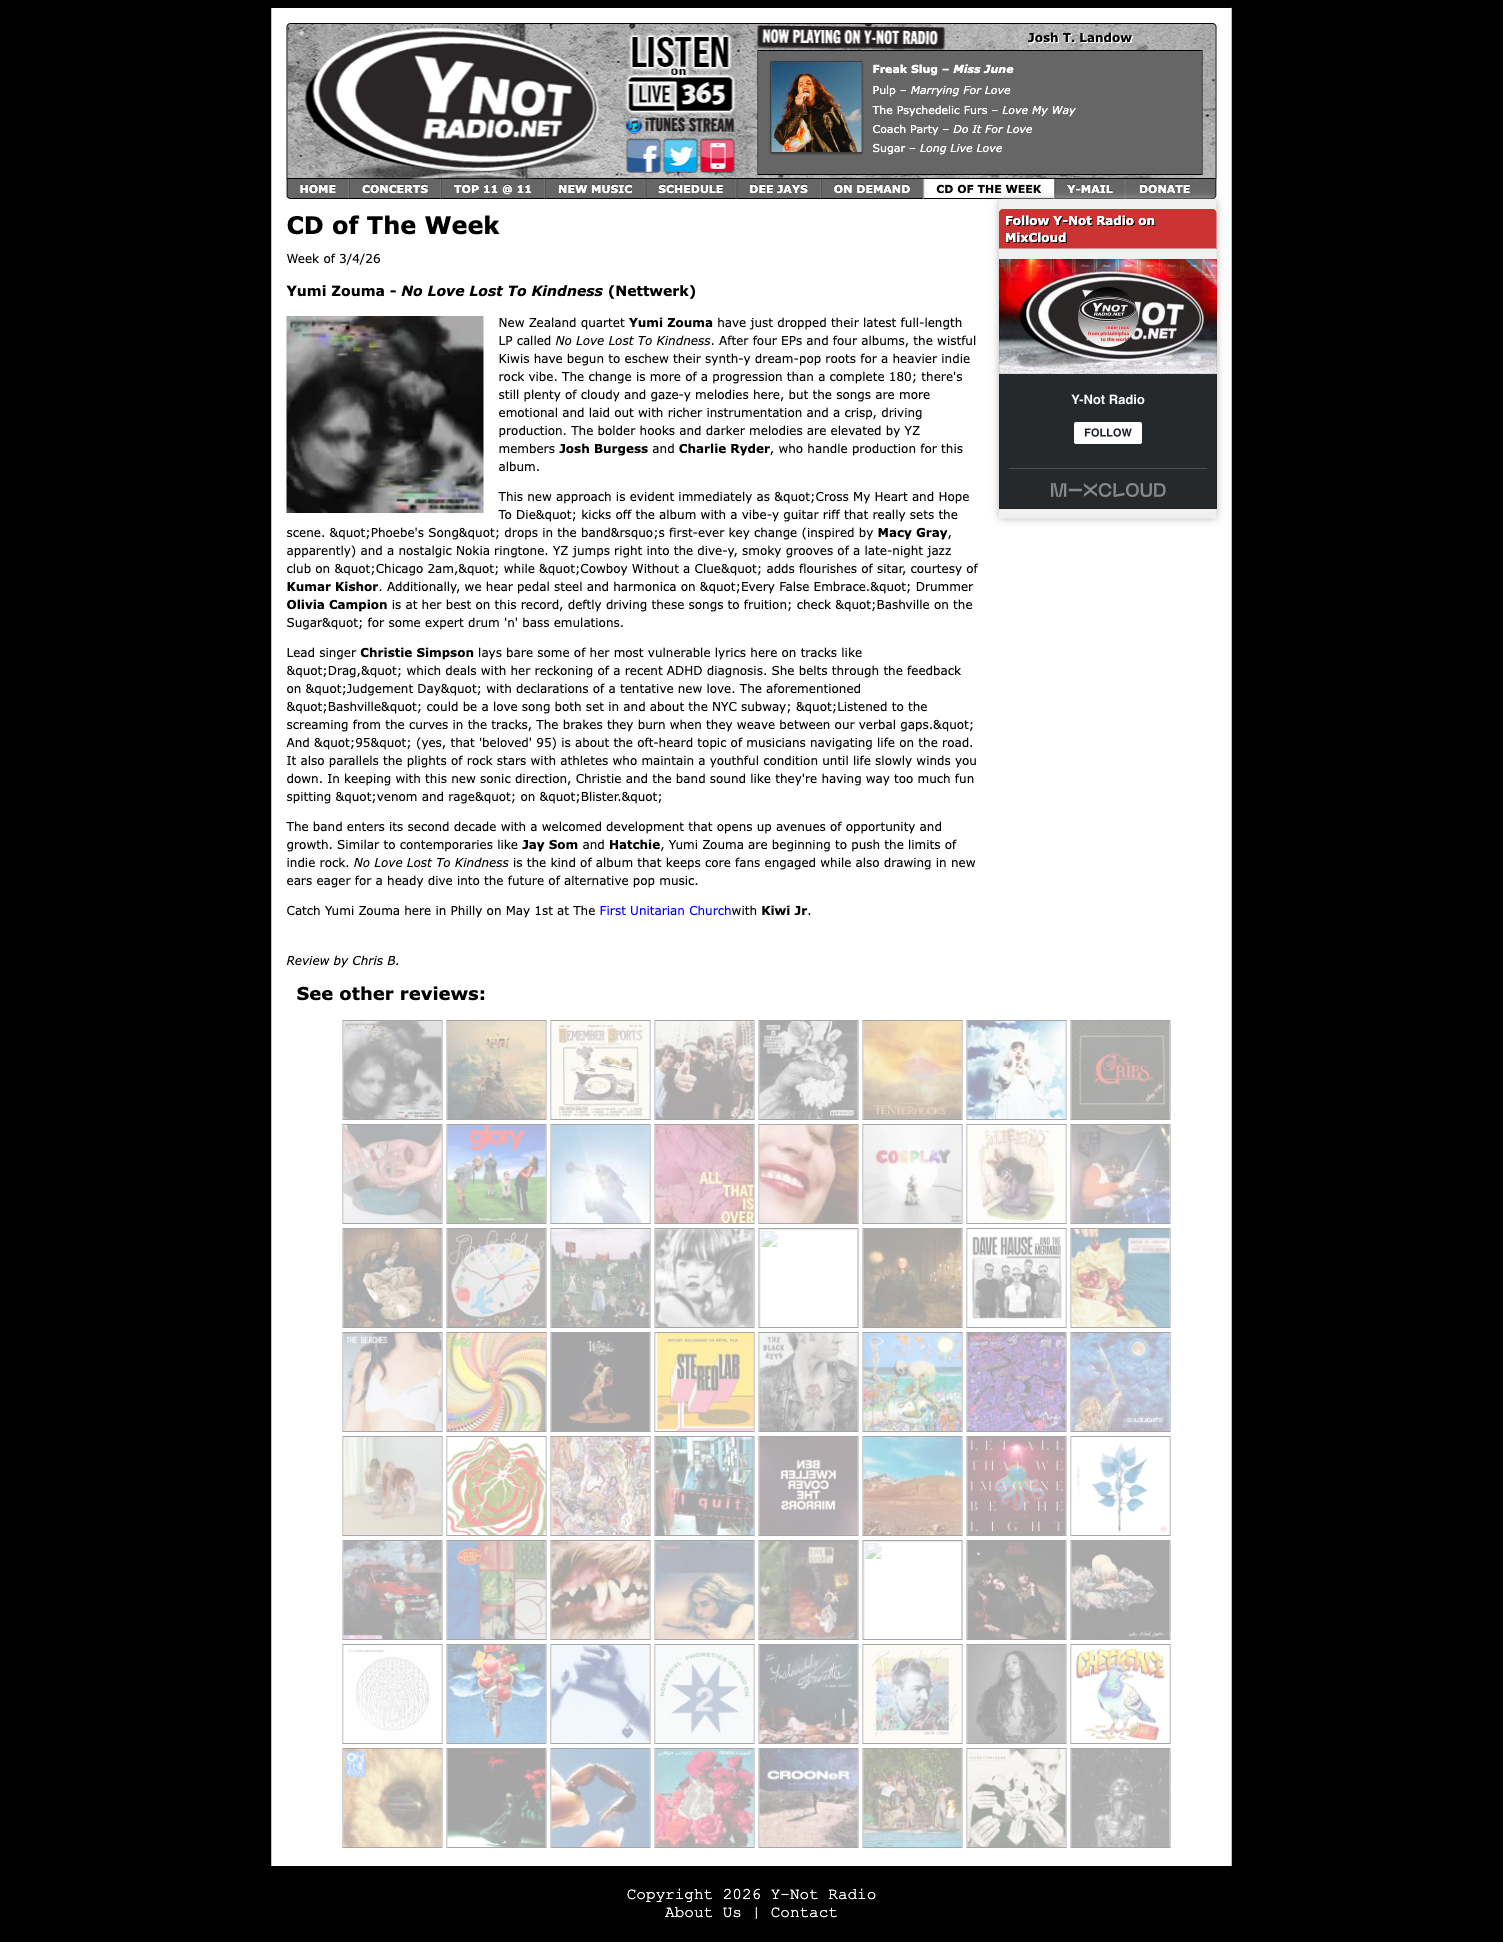
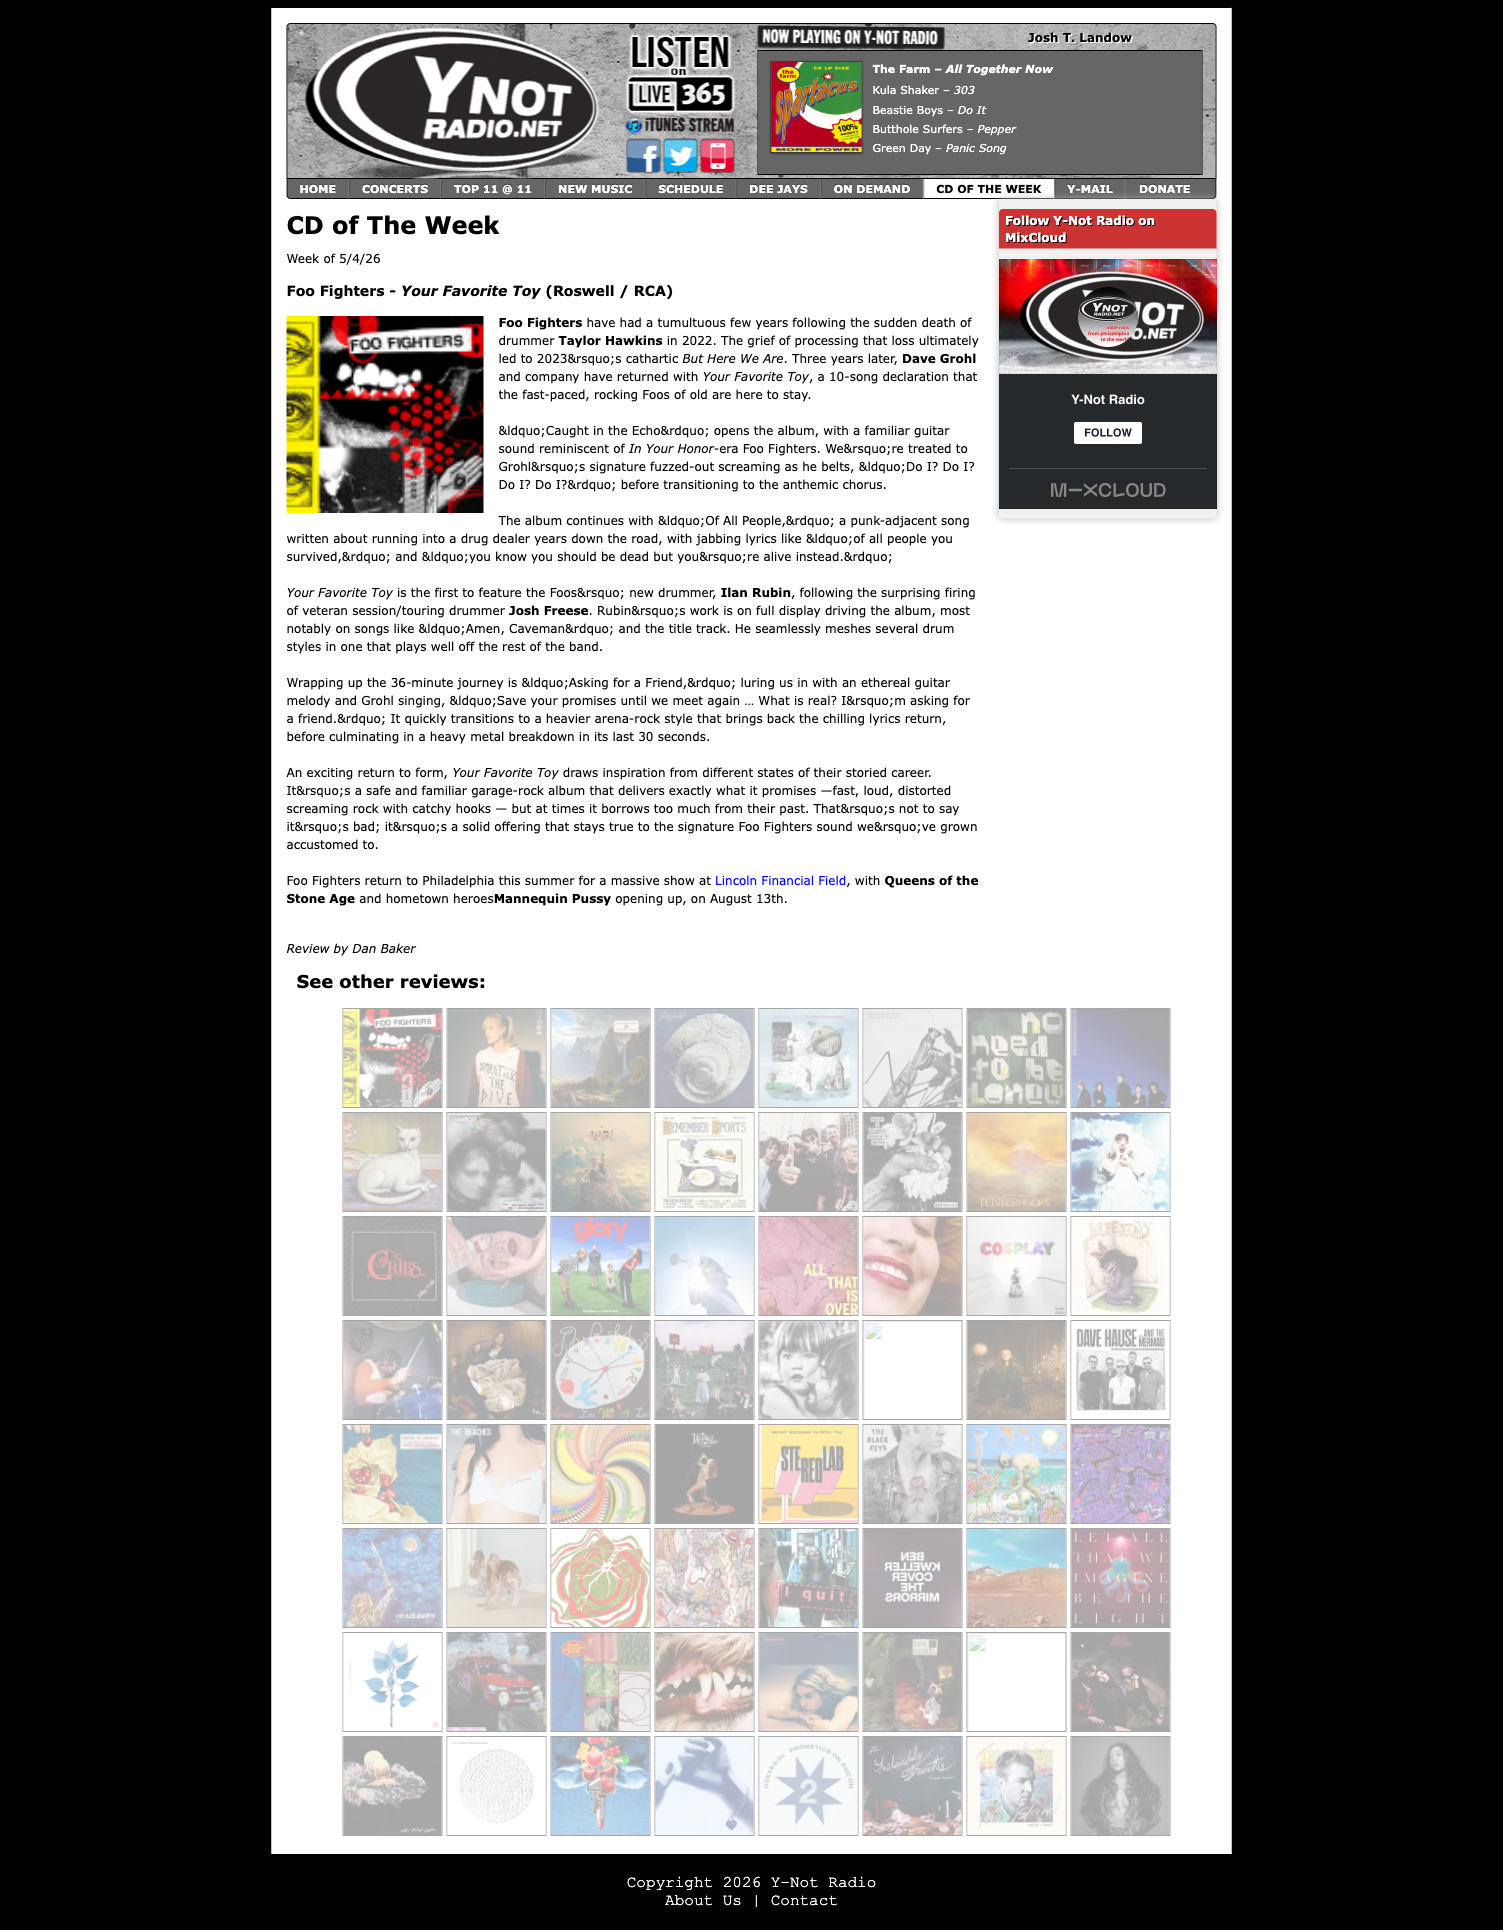
Fix incremental-import skipping cdotw/ondemand and broken script path
- cdotw and ondemand use 'no'/'yes' for the deleted column, while other
  tables use 'n'/'y'. The previous filter (deleted = 'n') excluded all
  rows from those two tables, so new records were never detected. Use
  NOT IN ('y','yes') to handle both conventions.
- Fix typo in importer script path: importCdotw.ts -> importCdOfTheWeek.ts.

Also refresh the post-fix CDOTW screenshot showing 9 newly-imported
entries (857-865) with cover images attached to prod Neon.

Changed region(s): [[0.1836, 0.0311, 0.8263, 0.9637]]

diff --git a/bin/incremental-import.ts b/bin/incremental-import.ts
@@ -266,8 +266,9 @@ async function getNewRecordCounts(
 
   for (const { key, table } of tables) {
     const lastId = lastIds[key as keyof LastImportIds] as number;
+    // cdotw and ondemand use 'no'/'yes'; other tables use 'n'/'y'.
     const [rows] = await connection.query<mysql.RowDataPacket[]>(
-      `SELECT COUNT(*) as count FROM ${table} WHERE deleted = 'n' AND id > ?`,
+      `SELECT COUNT(*) as count FROM ${table} WHERE deleted NOT IN ('y', 'yes') AND id > ?`,
       [lastId],
     );
     counts[key] = rows[0]?.count || 0;
@@ -516,7 +517,7 @@ async function main() {
       extraArgs: ['--sync-active'],
     },
     { key: 'ondemand', script: 'bin/migrations/importOnDemand.ts', count: newCounts.ondemand },
-    { key: 'cdotw', script: 'bin/migrations/importCdotw.ts', count: newCounts.cdotw },
+    { key: 'cdotw', script: 'bin/migrations/importCdOfTheWeek.ts', count: newCounts.cdotw },
     { key: 'ads', script: 'bin/migrations/importAds.ts', count: newCounts.ads },
     { key: 'djs', script: 'bin/migrations/importDJs.ts', count: newCounts.djs },
     { key: 'schedule', script: 'bin/migrations/importSchedule.ts', count: newCounts.schedule },
